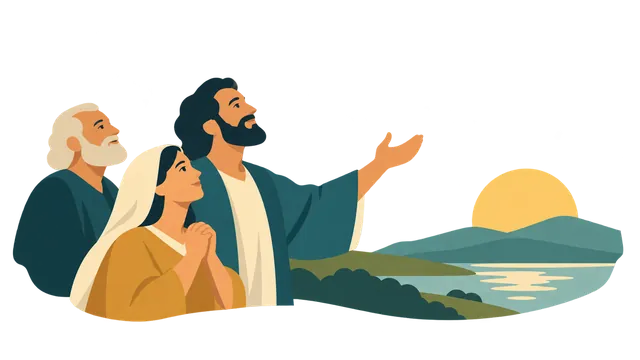
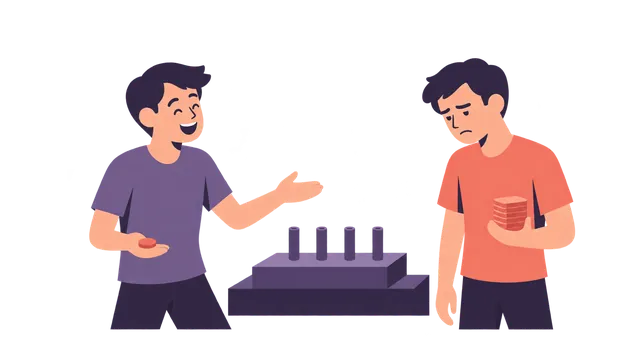
Obnov kolíčkový experiment u ilustrací 009 a 082 a zpřesni pravidla sdílení

diff --git a/docs/ilustrace-handoff.md b/docs/ilustrace-handoff.md
@@ -62,7 +62,7 @@ Posty 046–100 mají průhledné ilustrace vytvořené vestavěným image_gen n
 
 ## Ilustrace duplicitních témat
 
-Kontrola pokrývá 67 příspěvků ve 28 skupinách uvedených v `skills/faakt-create-posts/references/duplicity.md`. Všech 67 má WebP 640×360, skutečný alfa kanál, čtyři průhledné rohy a soubor pod 100 kB. Správné původní varianty zůstávají zachované. Nahrazeno je 16 obrázků s neprůhledným pozadím a dvě dříve odmítnuté ilustrace; doplněno je 10 chybějících souborů. Celkem se změnilo 28 assetů: dva nové výstupy image_gen a 26 přesných kopií stejného tématu. `posts.json` ani jeho metadata se nemění.
+Kontrola pokrývá 67 příspěvků ve 28 skupinách uvedených v `skills/faakt-create-posts/references/duplicity.md`. Všech 67 má WebP 640×360, skutečný alfa kanál, čtyři průhledné rohy a soubor pod 100 kB. Nahrazeno je 16 obrázků s neprůhledným pozadím, dvě dříve odmítnuté ilustrace a tematická scéna 082 podle výslovné volby uživatele; doplněno je 10 chybějících souborů. Oproti stavu před opravou duplicit jde o 29 assetů: tři nové výstupy image_gen a 26 přesných kopií. `posts.json` ani jeho metadata se nemění.
 
 Nová `001` (také `081`) ukazuje zákazníky se zavřenými peněženkami vedle zavíraného stánku: omezení nákupů ubírá obchodníkovi příjem. Jedna scéna bez šipek; počet detailů přesahuje orientační cíl ploch, děj je však při 160×90 a 320×180 čitelný. Nová `126` (také `558`) používá nezbytné jednoduché porovnání dvou galaxií a krátkých/delších světelných vln. Velikost a poloha galaxií nejsou kalibrovaným měřítkem vzdálenosti. Oba výstupy mají průhledné odsazení po všech hranách; při konverzi se zachovává RGBA. Nástroj nenabízel řízení ceny, kvality ani vstupních rozměrů.
 
@@ -73,7 +73,7 @@ Nová `001` (také `081`) ukazuje zákazníky se zavřenými peněženkami vedle
 | 063 | 004 |
 | 046 | 006 |
 | 050 | 008, 105 |
-| 082 | 009 |
+| 009 (nová) | 082 |
 | 052 | 010 |
 | 094 | 011 |
 | 095 | 012 |
@@ -91,6 +91,8 @@ Nová `001` (také `081`) ukazuje zákazníky se zavřenými peněženkami vedle
 | 047 | 107 |
 | 126 (nová) | 558 |
 
-Sdílení znamená shodu ústředního tématu, nikoli rekonstrukci každého konkrétního příběhu. Například `009` přebírá z `082` scénu kognitivní disonance s náboženskou skupinou, i když jeho text popisuje jiný experiment. Manifest u kopií eviduje `reusedFrom`, `sourceImageSha256`, výsledný `imageSha256`, původní prompt a jeho zdrojový `metadataHash`, důvod nahrazení a hash předchozího souboru, pokud existoval. Pole `illustration` nadále patří cílovému postu. Stav `accepted-background-reuse` potvrzuje kontrolu pozadí a použitelnost miniatury pro stejné téma, nikoli nový úplný audit všech faktických detailů.
+`009` a `082` používají na výslovné přání uživatele novou variantu původní ilustrace kolíčkového experimentu 009. Má dvě postavy u desky s kolíčky: účastník s malou odměnou hodnotí práci nadšeněji, účastník s větší odměnou působí znuděně. Tento směr účinku je podstatou výsledku; ilustrace jej nesmí obrátit. Nová verze má 25 270 B, průhledné okraje, 640×360 px a byla prohlédnuta při 160×90 a 320×180 na gradientu karty. Jemné stínování přesahuje přísně plochý stylový cíl. U 082 jde o uživatelem zvolený doprovod společného principu, nikoli o zobrazení příběhu sekty z jeho textu.
+
+Obsahová duplicita automaticky neznamená vizuální zaměnitelnost. Při opravě pozadí má přednost konkrétní scéna nejlépe odpovídající textu; odlišný příběh se stejným principem není automaticky náhradou. Toto pravidlo včetně srovnání původní a navržené scény je v ilustračním skillu. Manifest u kopií eviduje `reusedFrom`, `sourceImageSha256`, výsledný `imageSha256`, původní prompt a jeho zdrojový `metadataHash`, důvod nahrazení a hash předchozího souboru, pokud existoval. `009` navíc eviduje revizi a hash původního obrazového podkladu. Pole `illustration` nadále patří cílovému postu. Stav `accepted-user-selected-topic-accompaniment` u 082 výslovně rozlišuje zvolený tematický doprovod od přesné shody scény; starší `accepted-background-reuse` nepotvrzuje úplný sémantický audit.
 
 Ověření této změny zahrnuje dekódování všech 67 WebP, rozměry, alfu, průhledné rohy, limit velikosti, shodu kopií se zdrojem, manifest a zapnutí cílových ID v komponentě. Dále platí `npm test` a `npm run build`.

diff --git a/skills/faakt-illustrations/SKILL.md b/skills/faakt-illustrations/SKILL.md
@@ -27,6 +27,14 @@ Create recognizable, restrained editorial raster artwork from each post's `illus
 - Check that scene_type and composition_hints support that relationship. Repair conflicting illustration metadata locally when authorized, preserving the article and unrelated records; otherwise report the unresolved mismatch before spending a generation. A concept sentence cannot compensate for a wide scenic composition that hides the point.
 - Example: wu wei is not conveyed by a river beside a town. A close view of a current yielding around a rigid obstacle and continuing onward makes adaptation visible. This is a diagnostic example, not a mandatory river template for other posts.
 
+## Reusing artwork across duplicate posts
+
+- Editorial duplication and visual compatibility are separate decisions. Two posts can teach the same principle through different experiments, events or people. Before reusing an asset, read every destination's full text, inspect both its current image and the proposed source, and compare the concrete scene, actors, props and causal relationship. A matching topic, valid alpha or lower generation cost does not establish a semantic fit.
+- Preserve the best content-matching composition when fixing a background. Prefer a transparent edit/regeneration of that image over replacing it with a different story that merely shares the topic. When the user points to a previous version, inspect it from the workspace or version history and use it as a reference; this is an explicit exception to the default of not attaching previous images.
+- Check the direction of the effect, not just the objects. For post 009, the peg-turning task and unequal payments matter, but the small-payment participant must show the more positive appraisal. Showing the larger payment producing more enthusiasm reverses the finding.
+- Example: 009's boring-task experiment and 082's failed prophecy both concern cognitive dissonance, but a religious group is not a replacement scene for 009. Do not automatically share either concrete story across both. If the user explicitly chooses one shared illustration (as with the corrected 009 used for both), record that it illustrates the principle through 009's experiment and only accompanies 082's different account; do not claim it depicts both narratives or change either article to fit the image.
+- In provenance, distinguish topic-level accompaniment from an exact scene match, and record the source ID, actual submitted prompt, image hash and compatibility rationale. Background acceptance must never silently become semantic acceptance.
+
 ## Generation and token budget
 
 - Use an image-generation model available in the current agent environment and follow its tool instructions. Prefer an existing image tool over adding a service. Tool names and parameters depend on the agent; no particular vendor or SDK is required. One call per missing post, one complete image, no contact sheets, variants or procedural SVG substitutes. No separate language-model call is needed to rewrite prompts.

diff --git a/skills/faakt-create-posts/references/duplicity.md b/skills/faakt-create-posts/references/duplicity.md
@@ -37,6 +37,7 @@ Při přípravě nové dávky použij tyto skupiny jako příklady již pokrytý
 
 - „Do řeky nevstoupíš dvakrát“, „vše plyne“ a moderní aplikace Hérakleitovy proměny jsou stejná myšlenka; přejmenování a nový příklad nepomáhají.
 - Posty 009 a 082 popisují různé příběhy, ale učí stejný mechanismus kognitivní disonance. Jiný příběh nestačí.
+- Tato obsahová duplicita sama o sobě neopravňuje ke sdílení ilustrace: kolíčkový experiment 009 a nenaplněná předpověď sekty 082 mají jiné konkrétní scény. Při opravě pozadí zachovej námět, který nejlépe odpovídá textu; postup posouzení sdílených obrázků je v [ilustračním skillu](../../faakt-illustrations/SKILL.md). Výslovně zvolený společný obrázek může doprovázet princip, ale nesmí být vydáván za vyobrazení obou příběhů.
 - Naopak Smithova dělba práce (157) je jiný poznatek než neviditelná ruka (008, 050, 105). Konfuciova oprava slov (776) je jiná myšlenka než zlaté pravidlo (006, 046, 078). Nezakazuj celé osobnosti nebo obory.
 - Podobný titulek není důkaz: 474 zmiňuje cibulky, ale jeho celý obsah pojednává o bublině Společnosti jižních moří, zatímco 236 o tulipánové horečce. Rozhoduje celý obsah.
 - Příbuzná témata jako neeukleidovská geometrie (495, 846) vyžadují individuální posouzení hlavního poznatku. Tato tabulka nepotvrzuje jejich vzájemnou originalitu.

diff --git a/CLAUDE.md b/CLAUDE.md
@@ -154,6 +154,8 @@ Doporučený postup:
 
 ## Shared skills for AI agents
 
+- Při sdílení ilustrací rozlišuj obsahovou duplicitu od shody konkrétní scény. Oprava pozadí má zachovat nejlépe odpovídající námět; průhledná ilustrace jiného příběhu není automaticky náhradou. U experimentů ověř i směr účinku (u 009 pozitivnější hodnocení po malé odměně). Podrobnosti a výslovně zvolené sdílení 009/082 popisuje `skills/faakt-illustrations/SKILL.md`.
+
 - **Brána originality nových postů:** dodrž povinnou kontrolu v `skills/faakt-create-posts/SKILL.md` a přečti `skills/faakt-create-posts/references/duplicity.md`. Kontrola musí doložit pokrytí celé aktuální databáze (hash, počet, všechna ID) a pracovní verdikt ke každému návrhu s nejbližšími existujícími posty a konkrétním novým poznatkem. Opakovaný mechanismus v jiném příběhu je duplicita. Ověř i hotové texty mezi sebou a změny databáze před zápisem; bez dokončené kontroly dávku nepředávej ani nezapisuj. Pracovní přehled nepatří do datového schématu postů.
 - For generating post illustrations from existing metadata, use `skills/faakt-illustrations/SKILL.md`. The workflow and helper are part of this repository and work with any AI agent, without a Codex dependency.
 
